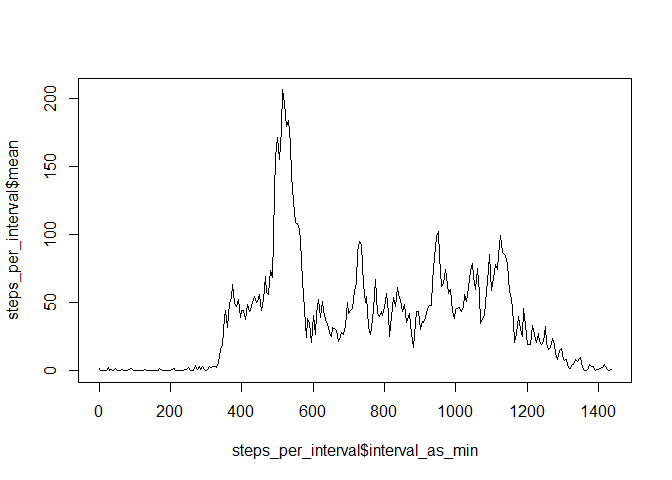
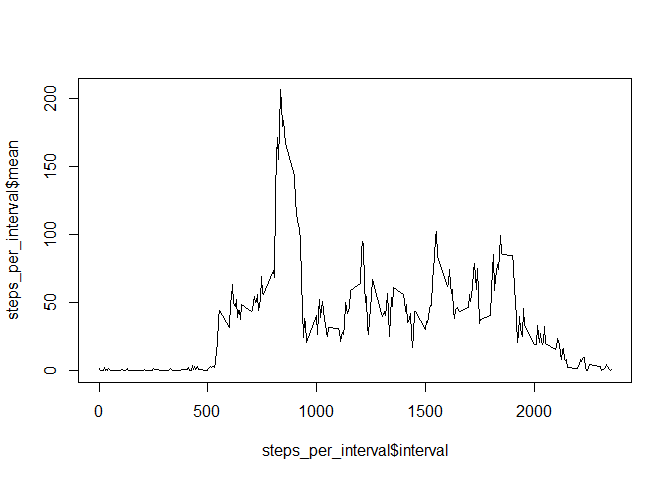
Full solution
finished pa1

diff --git a/PA1_template.html b/PA1_template.html
@@ -64,20 +64,21 @@ img {
 </div>
 
 
-<pre><code>## Warning: package 'knitr' was built under R version 3.2.2</code></pre>
 <div id="loading-and-preprocessing-the-data" class="section level2">
 <h2>Loading and preprocessing the data</h2>
-<p>I read the (unzipped) data frame and make two transformations: 1. the date column to R date format 2. the intervale column to minutes (e.g: 210 = 130, Two O’clock and ten minutes equals 130 minutes)</p>
+<p>I read the (unzipped) data frame and make two transformations:</p>
+<pre><code>1. the date column to R date format - new_date
+2. the intervale column to time format - new_interval</code></pre>
 <pre class="r"><code>data_file &lt;- &quot;activity.csv&quot;
 zip_file &lt;- &quot;activity.zip&quot;
 unzip(zipfile = zip_file)
 df &lt;- read.csv(data_file,header = TRUE)
-df$interval_as_min = ts(df$interval%%100 + df$interval%/%100 * 60)</code></pre>
+df$new_date &lt;- ymd(df$date)
+df$new_interval &lt;- hm(paste0(df$interval%/%100,&quot;:&quot;,df$interval%%100))</code></pre>
 </div>
 <div id="what-is-mean-total-number-of-steps-taken-per-day" class="section level2">
 <h2>What is mean total number of steps taken per day?</h2>
-<pre class="r"><code>library(plyr)
-total_steps_per_day &lt;- ddply(df,~date,summarise,total_steps=sum(steps,na.rm = TRUE))
+<pre class="r"><code>total_steps_per_day &lt;- ddply(df,~date,summarise,total_steps=sum(steps,na.rm = TRUE))
 hist(total_steps_per_day$total_steps, xlab = &quot;total number of steps per day&quot;,
      main = &quot;An histogram of the total number of steps taken each day&quot;, labels = TRUE)
 
@@ -98,23 +99,58 @@ text(median_steps+3000, 25 , paste(&quot;median&quot;,round(median_steps,0)), co
 </div>
 <div id="what-is-the-average-daily-activity-pattern" class="section level2">
 <h2>What is the average daily activity pattern?</h2>
-<pre class="r"><code>steps_per_interval &lt;- ddply(df,~interval_as_min,summarise,mean=mean(steps,na.rm = TRUE))
-plot(steps_per_interval$interval_as_min,steps_per_interval$mean, type = &quot;l&quot;)</code></pre>
[1 lines of base64/hex data omitted]
+<pre class="r"><code>steps_per_interval &lt;- ddply(df,~interval,summarise,mean=mean(steps,na.rm = TRUE))
+plot(steps_per_interval$interval,steps_per_interval$mean, type = &quot;l&quot;)</code></pre>
[1 lines of base64/hex data omitted]
+<p>The 5-minute intervale which contains the maximum number of steps is 835 (on average across all the days in the dataset)</p>
 <pre class="r"><code>max_steps &lt;- max(steps_per_interval$mean)
 max_interval &lt;- steps_per_interval[steps_per_interval$mean == max_steps,]
-#max_interval$interval%%60 + max_interval$interval%/%60 * 100</code></pre>
+max_interval$interval</code></pre>
+<pre><code>## [1] 835</code></pre>
 </div>
 <div id="imputing-missing-values" class="section level2">
 <h2>Imputing missing values</h2>
-<p>Calculate and report the total number of missing values in the dataset (i.e. the total number of rows with NAs)</p>
+<p>The total number of missing values in the dataset (i.e. the total number of rows with NAs) is 2304</p>
 <pre class="r"><code>sum(!complete.cases(df))</code></pre>
 <pre><code>## [1] 2304</code></pre>
-<p>Devise a strategy for filling in all of the missing values in the dataset. The strategy does not need to be sophisticated. For example, you could use the mean/median for that day, or the mean for that 5-minute interval, etc.</p>
-<pre class="r"><code>df$date_as_date &lt;- as.Date(df$date)</code></pre>
+<p>I am imputing all missing values with the mean for the 5-minute interval in all other days. The new dataset is called df_impute</p>
+<pre class="r"><code>df_impute = transform(df, steps = ifelse(is.na(steps), steps_per_interval[steps_per_interval$interval == interval,]$mean, steps))</code></pre>
+<pre class="r"><code>total_steps_per_day_impute &lt;- ddply(df_impute,~date,summarise,total_steps=sum(steps,na.rm = TRUE))
+hist(total_steps_per_day_impute$total_steps, xlab = &quot;total number of steps per day&quot;,
+     main = &quot;An histogram of the total number of steps taken each day&quot;, labels = TRUE)
+
+mean_steps &lt;- mean(total_steps_per_day_impute$total_steps)
+abline(v = mean_steps, col = &quot;blue&quot;, lwd = 2 )
+text(mean_steps-3000, 20 , paste(&quot;mean&quot;,round(mean_steps,0)), col = &quot;blue&quot;)
+
+median_steps &lt;- median(total_steps_per_day_impute$total_steps)
+abline(v = median_steps, col = &quot;red&quot;, lwd = 2)
+text(median_steps+3000, 25 , paste(&quot;median&quot;,round(median_steps,0)), col = &quot;red&quot;)</code></pre>
[1 lines of base64/hex data omitted]
+<p>The mean total number of steps taken per day is 9530.724 (before imputing was 9354.23)</p>
+<pre class="r"><code>mean(total_steps_per_day_impute$total_steps)</code></pre>
+<pre><code>## [1] 9530.724</code></pre>
+<p>The increas in percentage:</p>
+<pre class="r"><code>(mean(total_steps_per_day_impute$total_steps) - mean(total_steps_per_day$total_steps)) / mean(total_steps_per_day$total_steps) * 100</code></pre>
+<pre><code>## [1] 1.886792</code></pre>
+<p>The median total number of steps taken per day is 10439 (before imputing was 10395)</p>
+<pre class="r"><code>median(total_steps_per_day_impute$total_steps)</code></pre>
+<pre><code>## [1] 10439</code></pre>
+<p>The increas in percentage:</p>
+<pre class="r"><code>(median(total_steps_per_day_impute$total_steps) - median(total_steps_per_day$total_steps)) / median(total_steps_per_day$total_steps) * 100</code></pre>
+<pre><code>## [1] 0.4232804</code></pre>
+<p>The values show a small change. The mean and median are increased by 1,89% and 0.42% ,respectibly.</p>
 </div>
 <div id="are-there-differences-in-activity-patterns-between-weekdays-and-weekends" class="section level2">
 <h2>Are there differences in activity patterns between weekdays and weekends?</h2>
+<p>I created a new factor variable in the dataset with two levels - “weekday” and “weekend” indicating whether a given date is a weekday or weekend day (df_impute$day_type).</p>
+<pre class="r"><code>df_impute &lt;- transform(df_impute, day_type = ifelse(wday(df_impute$new_date) %in% c(1,7), &quot;weekend&quot;, &quot;weekday&quot;)) 
+df_impute$day_type &lt;- as.factor(df_impute$day_type) </code></pre>
+<p>Here is a panel plot of the 5-minute interval (x-axis) and the average number of steps taken, averaged across all weekday days or weekend days (y-axis)</p>
+<pre class="r"><code>avg_steps_by_interval_and_day_type &lt;- df_impute %&gt;% group_by(day_type, interval) %&gt;% select(steps) %&gt;%  summarise(avg_steps = mean (steps, na.rm = TRUE))
+
+xyplot(avg_steps~interval | day_type,data=avg_steps_by_interval_and_day_type, type=&quot;l&quot;, layout=c(1,2), ylab = &quot;mean steps number&quot;)</code></pre>
[1 lines of base64/hex data omitted]
 </div>
 
 

diff --git a/PA1_template.md b/PA1_template.md
@@ -1,31 +1,29 @@
 # Reproducible Research: Peer Assessment 1
 
 
-```
-## Warning: package 'knitr' was built under R version 3.2.2
-```
 
 
 ## Loading and preprocessing the data
 
 
 I read the (unzipped) data frame and make two transformations:
-    1. the date column to R date format
-    2. the intervale column to minutes (e.g: 210 = 130, Two O'clock and ten minutes equals 130 minutes)
+
+    1. the date column to R date format - new_date
+    2. the intervale column to time format - new_interval
 
 ```r
 data_file <- "activity.csv"
 zip_file <- "activity.zip"
 unzip(zipfile = zip_file)
 df <- read.csv(data_file,header = TRUE)
-df$interval_as_min = ts(df$interval%%100 + df$interval%/%100 * 60)
+df$new_date <- ymd(df$date)
+df$new_interval <- hm(paste0(df$interval%/%100,":",df$interval%%100))
 ```
 
 ## What is mean total number of steps taken per day?
 
 
 ```r
-library(plyr)
 total_steps_per_day <- ddply(df,~date,summarise,total_steps=sum(steps,na.rm = TRUE))
 hist(total_steps_per_day$total_steps, xlab = "total number of steps per day",
      main = "An histogram of the total number of steps taken each day", labels = TRUE)
@@ -65,23 +63,28 @@ median(total_steps_per_day$total_steps)
 ## What is the average daily activity pattern?
 
 ```r
-steps_per_interval <- ddply(df,~interval_as_min,summarise,mean=mean(steps,na.rm = TRUE))
-plot(steps_per_interval$interval_as_min,steps_per_interval$mean, type = "l")
+steps_per_interval <- ddply(df,~interval,summarise,mean=mean(steps,na.rm = TRUE))
+plot(steps_per_interval$interval,steps_per_interval$mean, type = "l")
 ```
 
 ![](PA1_template_files/figure-html/unnamed-chunk-5-1.png) 
 
+The 5-minute intervale which contains the maximum number of steps is 835 (on average across all the days in the dataset)
 
 ```r
 max_steps <- max(steps_per_interval$mean)
 max_interval <- steps_per_interval[steps_per_interval$mean == max_steps,]
-#max_interval$interval%%60 + max_interval$interval%/%60 * 100
+max_interval$interval
+```
+
+```
+## [1] 835
 ```
 
 
 ## Imputing missing values
 
-Calculate and report the total number of missing values in the dataset (i.e. the total number of rows with NAs)
+The total number of missing values in the dataset (i.e. the total number of rows with NAs) is 2304
 
 ```r
 sum(!complete.cases(df))
@@ -91,11 +94,87 @@ sum(!complete.cases(df))
 ## [1] 2304
 ```
 
-Devise a strategy for filling in all of the missing values in the dataset. The strategy does not need to be sophisticated. For example, you could use the mean/median for that day, or the mean for that 5-minute interval, etc.
+
+I am imputing all missing values with the mean for the 5-minute interval in all other days.
+The new dataset is called df_impute
 
 ```r
-df$date_as_date <- as.Date(df$date)
+df_impute = transform(df, steps = ifelse(is.na(steps), steps_per_interval[steps_per_interval$interval == interval,]$mean, steps))
 ```
 
 
+
+```r
+total_steps_per_day_impute <- ddply(df_impute,~date,summarise,total_steps=sum(steps,na.rm = TRUE))
+hist(total_steps_per_day_impute$total_steps, xlab = "total number of steps per day",
+     main = "An histogram of the total number of steps taken each day", labels = TRUE)
+
+mean_steps <- mean(total_steps_per_day_impute$total_steps)
+abline(v = mean_steps, col = "blue", lwd = 2 )
+text(mean_steps-3000, 20 , paste("mean",round(mean_steps,0)), col = "blue")
+
+median_steps <- median(total_steps_per_day_impute$total_steps)
+abline(v = median_steps, col = "red", lwd = 2)
+text(median_steps+3000, 25 , paste("median",round(median_steps,0)), col = "red")
+```
+
+![](PA1_template_files/figure-html/unnamed-chunk-9-1.png) 
+
+The mean total number of steps taken per day is  9530.724 (before imputing was 9354.23)
+
+```r
+mean(total_steps_per_day_impute$total_steps)
+```
+
+```
+## [1] 9530.724
+```
+The increas in percentage:
+
+```r
+(mean(total_steps_per_day_impute$total_steps) - mean(total_steps_per_day$total_steps)) / mean(total_steps_per_day$total_steps) * 100
+```
+
+```
+## [1] 1.886792
+```
+The median total number of steps taken per day is 10439 (before imputing was 10395)
+
+```r
+median(total_steps_per_day_impute$total_steps)
+```
+
+```
+## [1] 10439
+```
+
+The increas in percentage:
+
+```r
+(median(total_steps_per_day_impute$total_steps) - median(total_steps_per_day$total_steps)) / median(total_steps_per_day$total_steps) * 100
+```
+
+```
+## [1] 0.4232804
+```
+
+The values show a small change. The mean and median are increased by 1,89% and 0.42% ,respectibly.  
+
 ## Are there differences in activity patterns between weekdays and weekends?
+I created a new factor variable in the dataset with two levels - "weekday" and "weekend" indicating whether a given date is a weekday or weekend day (df_impute$day_type).
+
+```r
+df_impute <- transform(df_impute, day_type = ifelse(wday(df_impute$new_date) %in% c(1,7), "weekend", "weekday")) 
+df_impute$day_type <- as.factor(df_impute$day_type) 
+```
+
+Here is a panel plot of the 5-minute interval (x-axis) and the average number of steps taken, averaged across all weekday days or weekend days (y-axis)
+
+```r
+avg_steps_by_interval_and_day_type <- df_impute %>% group_by(day_type, interval) %>% select(steps) %>%  summarise(avg_steps = mean (steps, na.rm = TRUE))
+
+xyplot(avg_steps~interval | day_type,data=avg_steps_by_interval_and_day_type, type="l", layout=c(1,2), ylab = "mean steps number")
+```
+
+![](PA1_template_files/figure-html/unnamed-chunk-15-1.png) 
+
